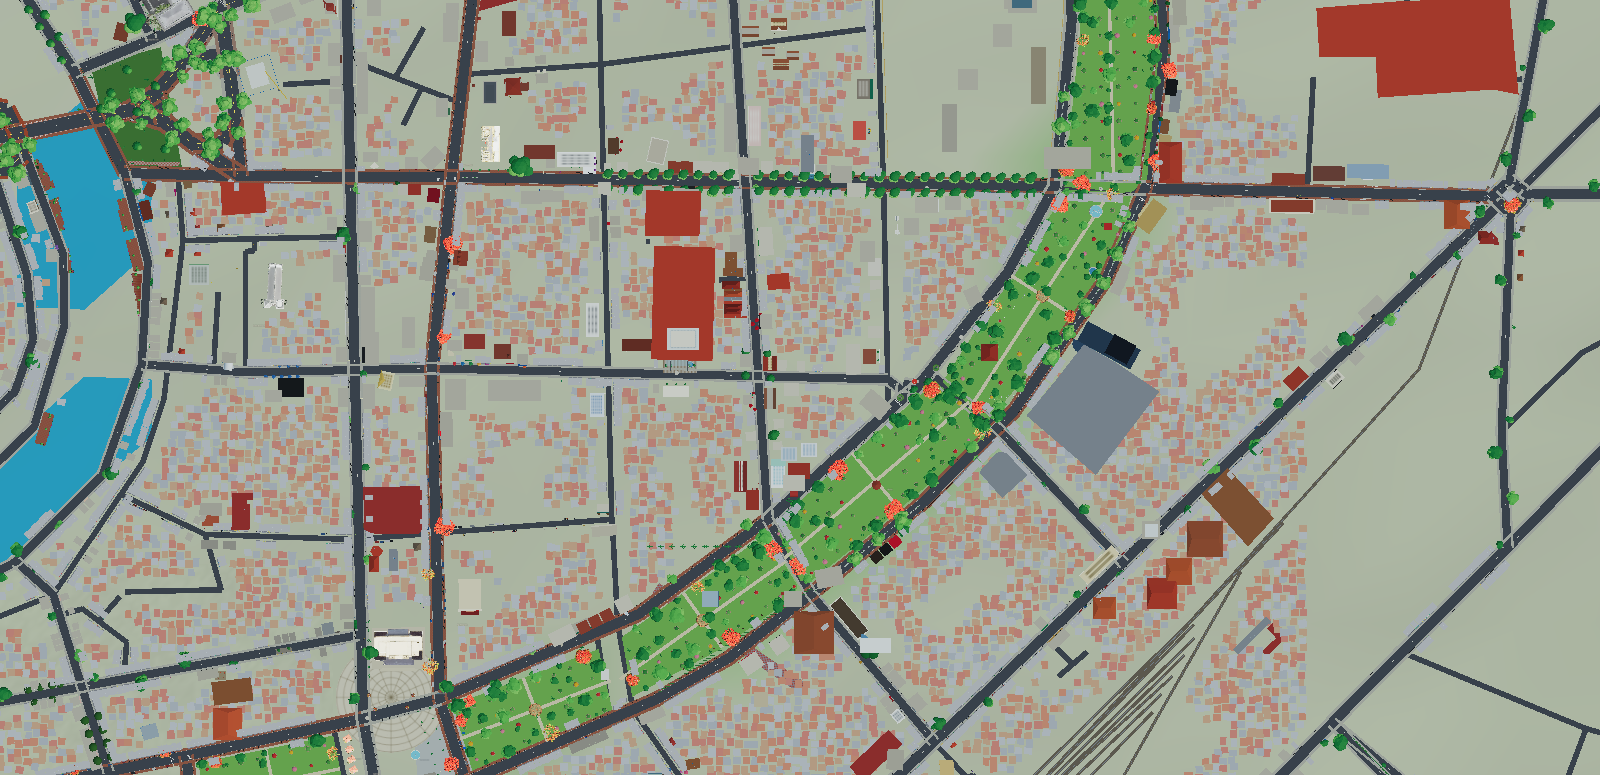
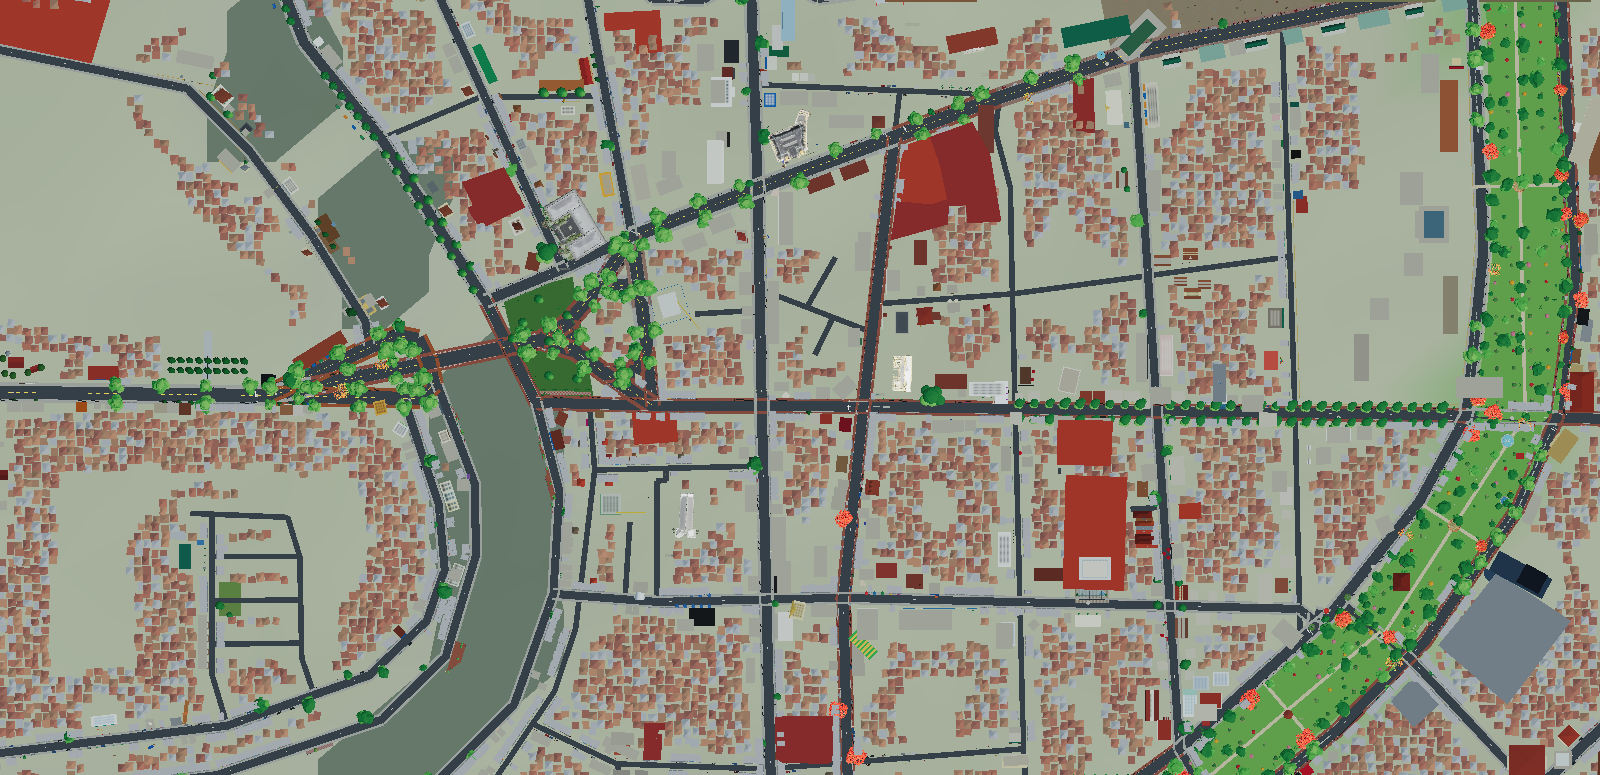
Diệt dứt điểm NƯỚC CYAN (bug vệ tinh #1): daynight ghi đè waterMat mỗi khung
Root cause tìm bằng lấy mẫu pixel: lake=#2b96b6 (R=0x2b) != waterMat 0x6b7a68.
js/daynight.js:170 setHex(0x2b9fd4) mỗi khung theo chu kỳ → mọi chỉnh màu vô hiệu.
Đổi ngày 0x6b7a68 (xám-lục đục phù sa) lerp đêm 0x141d1a. Verify: #2b96b6→#647769,
khớp Tam Bạc thật. KNOWLEDGE (cf) + 8 game aerial chụp lại.

diff --git a/js/daynight.js b/js/daynight.js
@@ -165,9 +165,11 @@ export function createDayNight(scene, world) {
       if (world.lighthouseBeam) {
         world.lighthouseBeam.mat.opacity = glow * 0.28;
       }
-      // nước tối dần về đêm
+      // nước tối dần về đêm — ĐỤC XÁM-LỤC phù sa (Tam Bạc/Cấm thật), KHÔNG cyan.
+      // (BÀI HỌC: vòng này GHI ĐÈ waterMat.color mỗi khung → mọi chỉnh màu ở world.js vô hiệu;
+      //  đây là nguồn thật của "nước cyan" trên vệ tinh. Đổi ngày=lục-xám đục, đêm=tối đục.)
       if (world.waterMat) {
-        world.waterMat.color.setHex(0x2b9fd4).lerp(new THREE.Color(0x14304a), glow);
+        world.waterMat.color.setHex(0x6b7a68).lerp(new THREE.Color(0x141d1a), glow);
       }
       return s;
     },

diff --git a/KNOWLEDGE.md b/KNOWLEDGE.md
@@ -315,6 +315,13 @@ nhờ model vision ngoài chấm từng cặp, sửa theo cụm, lặp tới khi
 
 ## 10. Nhật ký cập nhật (thêm dòng mới ở TRÊN CÙNG)
 
+- **2026-07-15 (cf)** [DIỆT DỨT ĐIỂM "NƯỚC CYAN" — bug vệ tinh #1, truy nhiều vòng]: ROOT CAUSE tìm ra bằng
+    lấy mẫu pixel aerial (lake=#2b96b6, R=0x2b — KHÔNG khớp waterMat 0x6b7a68 R=0x6b) → `js/daynight.js:170`
+    GHI ĐÈ `world.waterMat.color.setHex(0x2b9fd4)` MỖI KHUNG theo chu kỳ ngày/đêm ⇒ mọi chỉnh màu ở world.js
+    (waterMat) bị vô hiệu. FIX: đổi ngày `0x6b7a68` (xám-lục đục phù sa) lerp đêm `0x141d1a`. Verify: lake
+    pixel #2b96b6→#647769, khớp Tam Bạc thật (real_1: xám-lục đục, KHÔNG cyan). BÀI HỌC KIM CHỈ NAM: khi
+    một màu "không chịu đổi" dù đã sửa nơi khởi tạo material → GREP toàn `js/` tìm nơi GÁN LẠI `.color/.setHex`
+    per-frame (daynight/animate); lấy MẪU PIXEL để so hex đúng thủ phạm thay vì đoán.
 - **2026-07-15 (ce)** [MỤC TIÊU 8 + NÂNG CẤP RENDER (user gỡ ràng buộc low-poly)]: hội ý ChatGPT — PANO→8
     ROI: #1 bố cục/setback, #2 hình học/silhouette (mái/awning/ban công), #3 vật liệu/ánh sáng. Lỗi hiển thị
     (nhà/vỉa hè tràn đường, sai hướng/setback) phát hiện bằng topology 2D (footprint∩lòng-đường, facade-edge
